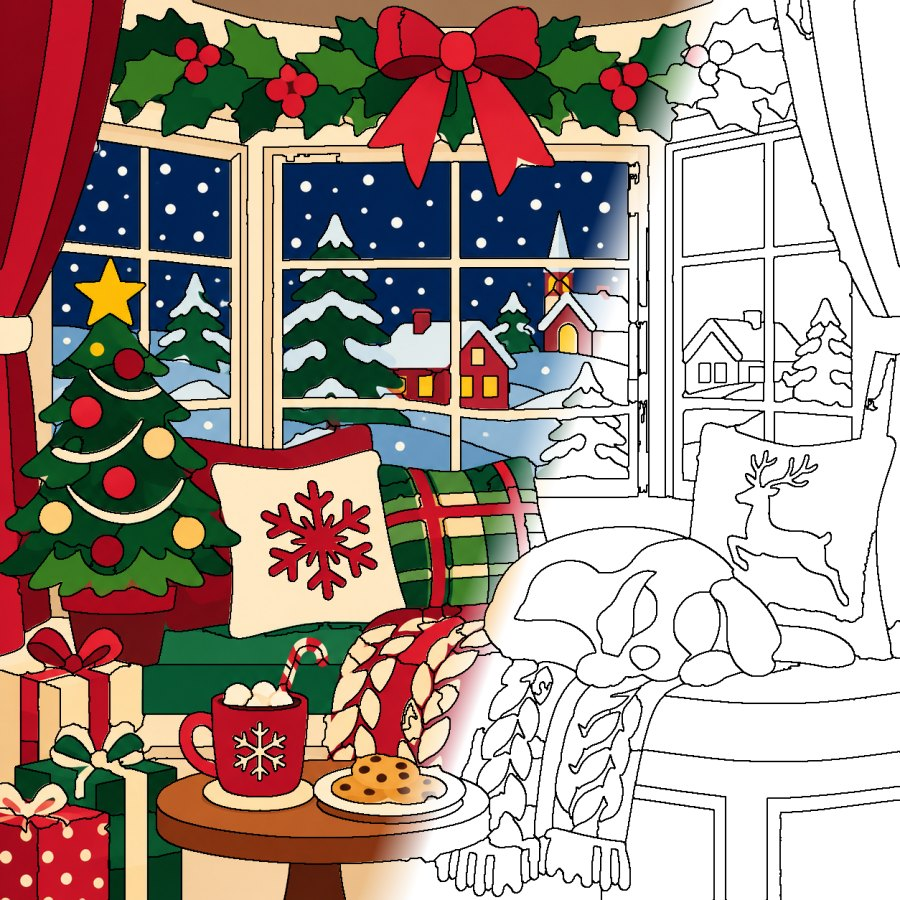
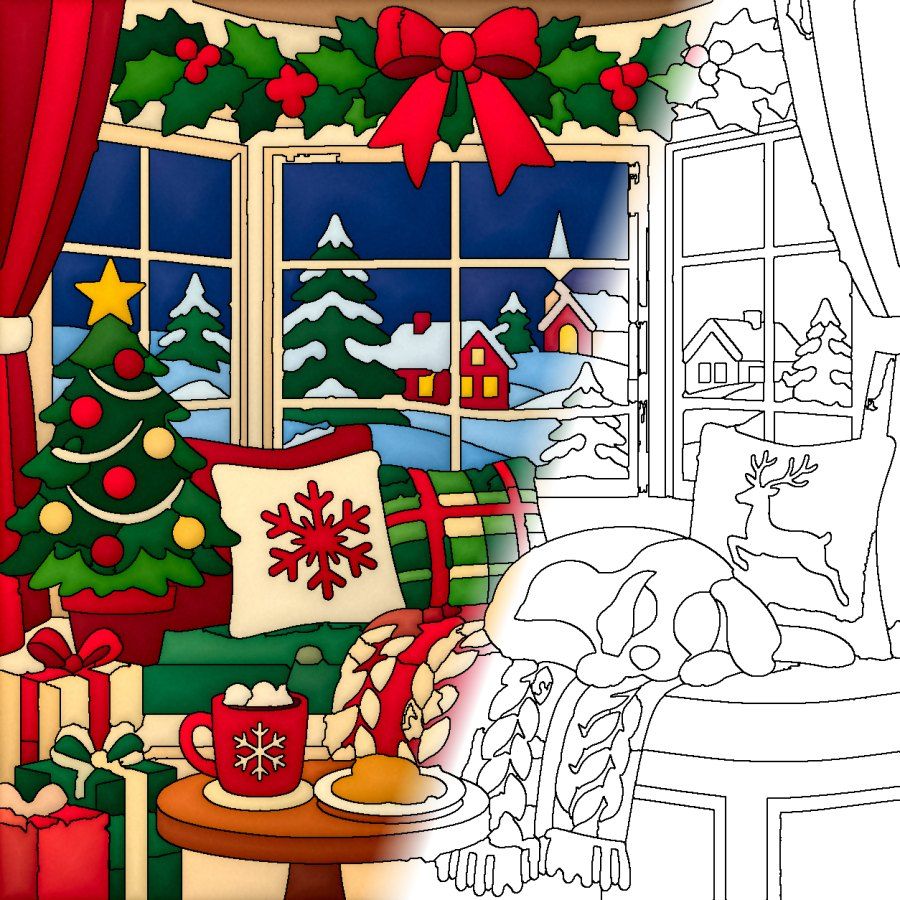
Shaded, deeper colour on flat pages
tools/shade_page.py paints depth into every piece of a flat-colour page:
a light side and a shadow side, a soft darker rim inside the outline, a
glow toward the middle, more saturated colour and a fine grain. Big
background pieces get a slow vertical gradient. flat_page.py runs it
when no rich repaint is supplied.

Applied to Thanksgiving Window, Christmas Window Seat, Lakeside Cottage
and Zodiac Wheel. Pieces are unchanged, so saved progress is kept.

Claude-Session: https://claude.ai/code/session_01X4jKmC36k778ncv5ZPyc4q

Changed region(s): [[0.0, 0.0, 0.7778, 1.0]]

diff --git a/tools/shade_page.py b/tools/shade_page.py
@@ -1,0 +1,66 @@
+#!/usr/bin/env python3
+"""Paint depth into a flat-colour page: what a tap reveals becomes shaded and rich instead of flat.
+
+  python3 tools/shade_page.py <slug> [<slug> ...] [--depth 1.0] [--rich 1.0]
+
+For a page built by flat_page.py from flat art only. Reads the pieces (labels.png) and the flat picture
+(pages/src/<slug>-flat.*) and writes a new public/pages/<slug>/color.jpg in which every piece has:
+  * a light side and a shadow side (light from the upper left), so shapes look rounded, not cut out
+  * a soft darker rim just inside its outline and a gentle glow toward its middle
+  * deeper, more saturated colour, and a fine paper grain
+Big background pieces (sky, walls, water) get a slow top-to-bottom gradient instead of a round shade.
+The pieces do not change, so saved progress is kept. Also redraws feature.jpg. Needs opencv, numpy.
+"""
+import sys, os, json, argparse, glob
+import numpy as np, cv2
+R = os.path.dirname(os.path.dirname(os.path.abspath(__file__)))
+ap = argparse.ArgumentParser(); ap.add_argument('slugs', nargs='+')
+ap.add_argument('--depth', type=float, default=1.0, help='strength of the light and shadow')
+ap.add_argument('--rich', type=float, default=1.0, help='strength of the colour deepening')
+a = ap.parse_args()
+for slug in a.slugs:
+    d = os.path.join(R, 'public', 'pages', slug)
+    L = cv2.imread(os.path.join(d, 'labels.png')); src = sorted(glob.glob(os.path.join(R, 'pages', 'src', slug + '-flat.*')))
+    if L is None or not src: print('skip', slug, '(needs labels.png and pages/src/<slug>-flat.*)'); continue
+    lbl = L[:, :, 2].astype(np.int32) + 256 * L[:, :, 1].astype(np.int32); h, w = lbl.shape; n = int(lbl.max()) + 1; fl = lbl.ravel()
+    flat = cv2.resize(cv2.imread(src[0]), (w, h), interpolation=cv2.INTER_AREA)
+    # each piece's own flat colour (median-ish: mean of the pixels away from its edges)
+    e = np.zeros((h, w), np.uint8); e[:, 1:] |= (lbl[:, 1:] != lbl[:, :-1]).astype(np.uint8); e[1:, :] |= (lbl[1:, :] != lbl[:-1, :]).astype(np.uint8)
+    e[0, :] = e[-1, :] = 1; e[:, 0] = e[:, -1] = 1
+    dist = cv2.distanceTransform(1 - e, cv2.DIST_L2, 5)                 # px to the nearest outline
+    lab = cv2.cvtColor(flat, cv2.COLOR_BGR2LAB).astype(np.float32).reshape(-1, 3)
+    wgt = np.clip(dist.ravel() - 1.5, 0.05, 4)
+    den = np.bincount(fl, weights=wgt, minlength=n)
+    base = np.stack([np.bincount(fl, weights=lab[:, i] * wgt, minlength=n) for i in range(3)], 1) / np.maximum(den, 1e-6)[:, None]
+    area = np.bincount(fl, minlength=n).astype(np.float32); rmax = np.zeros(n, np.float32); np.maximum.at(rmax, fl, dist.ravel())
+    # position of each pixel inside its piece along the light direction (upper left -> lower right), 0..1
+    yy, xx = np.mgrid[0:h, 0:w].astype(np.float32); proj = (xx * 0.55 + yy * 0.83).ravel()
+    pmin = np.full(n, 1e9, np.float32); pmax = np.full(n, -1e9, np.float32); np.minimum.at(pmin, fl, proj); np.maximum.at(pmax, fl, proj)
+    t = (proj - pmin[fl]) / np.maximum(pmax[fl] - pmin[fl], 1.0)         # 0 = lit side, 1 = shadow side
+    big = (area[fl] > 0.035 * h * w)                                    # backgrounds: slow vertical gradient
+    ymin = np.full(n, 1e9, np.float32); ymax = np.full(n, -1e9, np.float32); np.minimum.at(ymin, fl, yy.ravel()); np.maximum.at(ymax, fl, yy.ravel())
+    ty = (yy.ravel() - ymin[fl]) / np.maximum(ymax[fl] - ymin[fl], 1.0)
+    dn = np.clip(dist.ravel() / np.maximum(np.minimum(rmax[fl], 60.0), 1.0), 0, 1)   # 0 at the outline, 1 deep inside
+    B = base[fl].copy(); Lc = B[:, 0]
+    k = a.depth
+    shade = np.where(big, (0.5 - ty) * 26 * k, (0.5 - t) * 46 * k)      # light to dark across the piece
+    rim = -22 * k * np.exp(-dist.ravel() / 5.0) * np.where(big, 0.5, 1.0)  # soft dark rim inside the outline
+    glow = 12 * k * (dn ** 1.5) * np.where(big, 0.3, 1.0)               # lighter toward the middle
+    room = np.clip((255 - Lc) / 90, 0.25, 1.0)                           # pale colours brighten less, so whites stay white-ish
+    dark = np.clip(Lc / 110, 0.35, 1.0)                                  # very dark colours darken less
+    dL = np.where(shade + glow > 0, (shade + glow) * room, (shade + glow) * dark) + rim * dark
+    out = B.copy(); out[:, 0] = np.clip(Lc + dL, 0, 255)
+    sat = (1.0 + 0.22 * a.rich) * (1 + 0.10 * a.rich * (0.5 - t))        # deeper colour, a touch warmer on the lit side
+    out[:, 1] = np.clip(128 + (B[:, 1] - 128) * sat, 0, 255); out[:, 2] = np.clip(128 + (B[:, 2] - 128) * sat + 3 * a.rich * (0.5 - t), 0, 255)
+    img = cv2.cvtColor(out.reshape(h, w, 3).astype(np.uint8), cv2.COLOR_LAB2BGR).astype(np.float32)
+    rng = np.random.RandomState(7); grain = cv2.GaussianBlur(rng.randn(h, w).astype(np.float32), (0, 0), 0.8) * 5.0
+    img = np.clip(img + grain[..., None], 0, 255)
+    img = cv2.bilateralFilter(img.astype(np.uint8), 5, 12, 3)
+    cv2.imwrite(os.path.join(d, 'color.jpg'), img, [cv2.IMWRITE_JPEG_QUALITY, 92])
+    line = cv2.imread(os.path.join(d, 'line.png'), cv2.IMREAD_GRAYSCALE)
+    if line is not None:
+        blank = cv2.cvtColor(cv2.erode(line, np.ones((2, 2), np.uint8)), cv2.COLOR_GRAY2BGR)
+        tt = np.clip(((xx - 0.60 * w) + (yy - 0.5 * h) * 0.35) / (0.06 * w) + 0.5, 0, 1)[..., None]
+        feat = (np.minimum(img, blank) * (1 - tt) + blank * tt).astype(np.uint8)
+        cv2.imwrite(os.path.join(d, 'feature.jpg'), cv2.resize(feat, (900, round(900 * h / w)), interpolation=cv2.INTER_AREA), [cv2.IMWRITE_JPEG_QUALITY, 86])
+    print(slug, 'shaded:', n - 1, 'pieces')

diff --git a/tools/flat_page.py b/tools/flat_page.py
@@ -105,5 +105,7 @@ blank = cv2.cvtColor(cv2.erode(line, np.ones((2, 2), np.uint8)), cv2.COLOR_GRAY2
 yy, xx = np.mgrid[0:h, 0:w].astype(np.float32); t = np.clip(((xx - 0.60 * w) + (yy - 0.5 * h) * 0.35) / (0.06 * w) + 0.5, 0, 1)[..., None]
 feat = (np.minimum(col, blank) * (1 - t) + blank * t).astype(np.uint8)
 cv2.imwrite(os.path.join(out, 'feature.jpg'), cv2.resize(feat, (900, round(900 * h / w)), interpolation=cv2.INTER_AREA), [cv2.IMWRITE_JPEG_QUALITY, 86])
+if not a.rich:   # no rich repaint supplied: paint light, shadow and deeper colour into the flat pieces
+    subprocess.run([sys.executable, os.path.join(R, 'tools', 'shade_page.py'), a.slug], check=True, stdout=subprocess.DEVNULL)
 ar = sorted(r['a'] for r in regions)
 print(f"{a.slug}: {Rn} pieces, {K} colours, smallest {ar[0]} px, median {ar[len(ar)//2]}, {level}, {time.time()-t0:.0f}s")

diff --git a/README.md b/README.md
@@ -19,6 +19,8 @@ the same picture repainted rich and shaded (shapes kept in place); a tap then re
     python3 tools/flat_page.py <slug> flat.png [rich.jpg] --title "Title" --theme landscapes --style "Kodachrome"
 
 That one command writes the whole page (pieces, vector outlines, thumbnail, feature image, pages.json entry).
+With no rich picture, it runs `tools/shade_page.py`, which paints light, shadow, a soft rim and deeper colour into
+every flat piece, so a tap reveals shaded colour instead of a flat fill (`--depth` and `--rich` tune it).
 
 **From a line drawing and a painting (older route):**
 Color-by-number (two files from ChatGPT: the line art, then "paint this exact drawing"):
